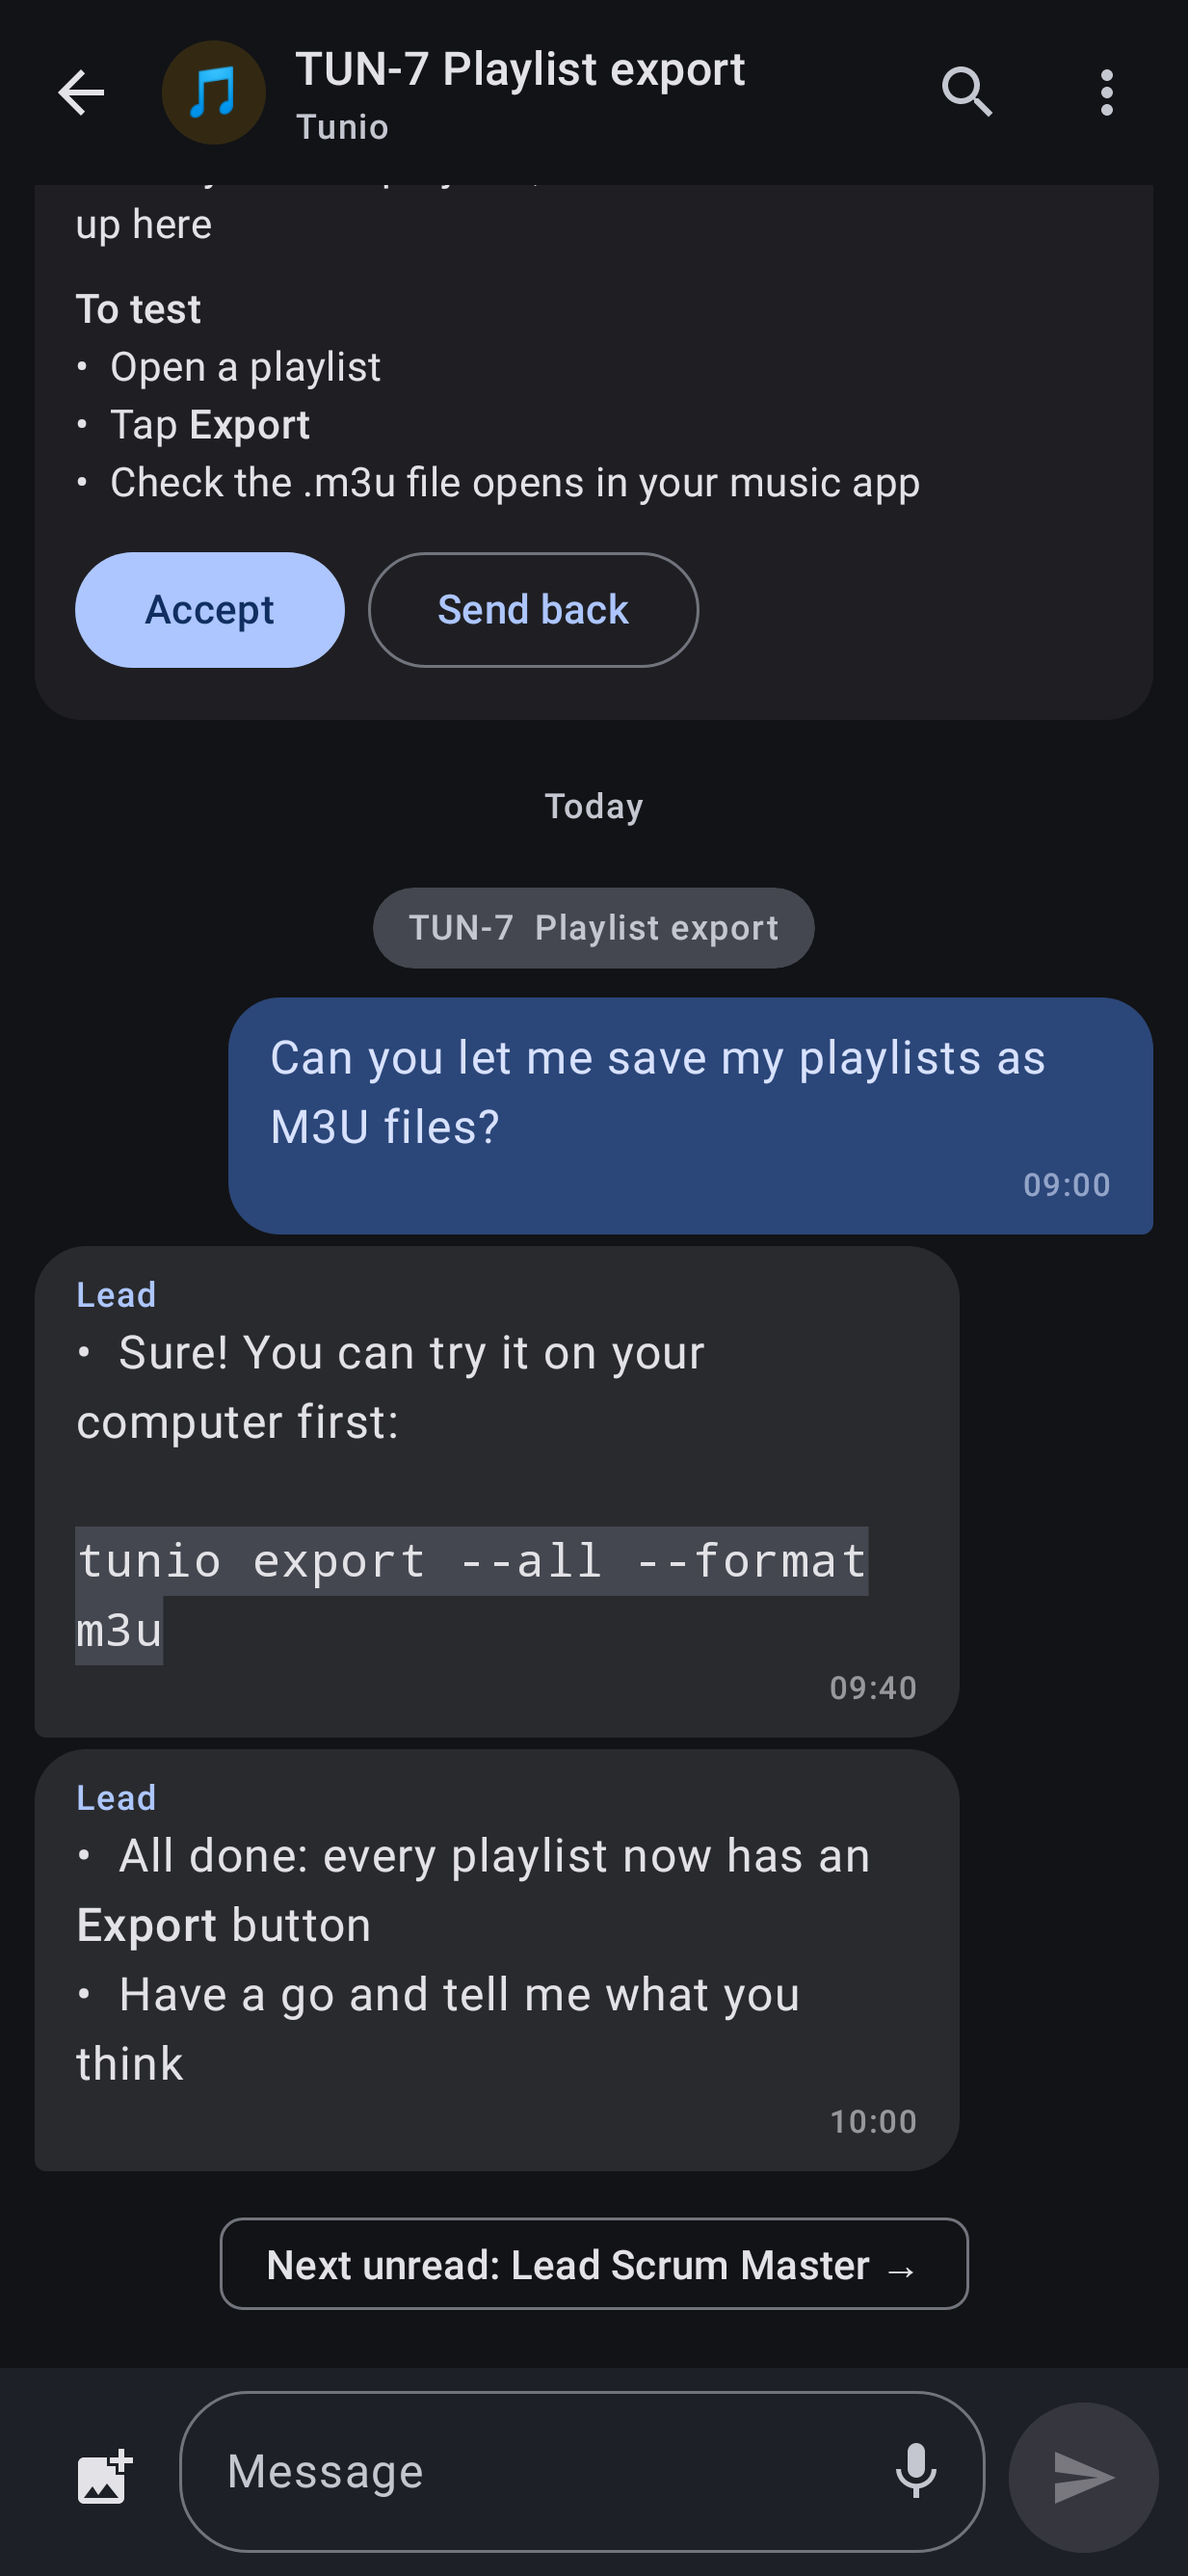
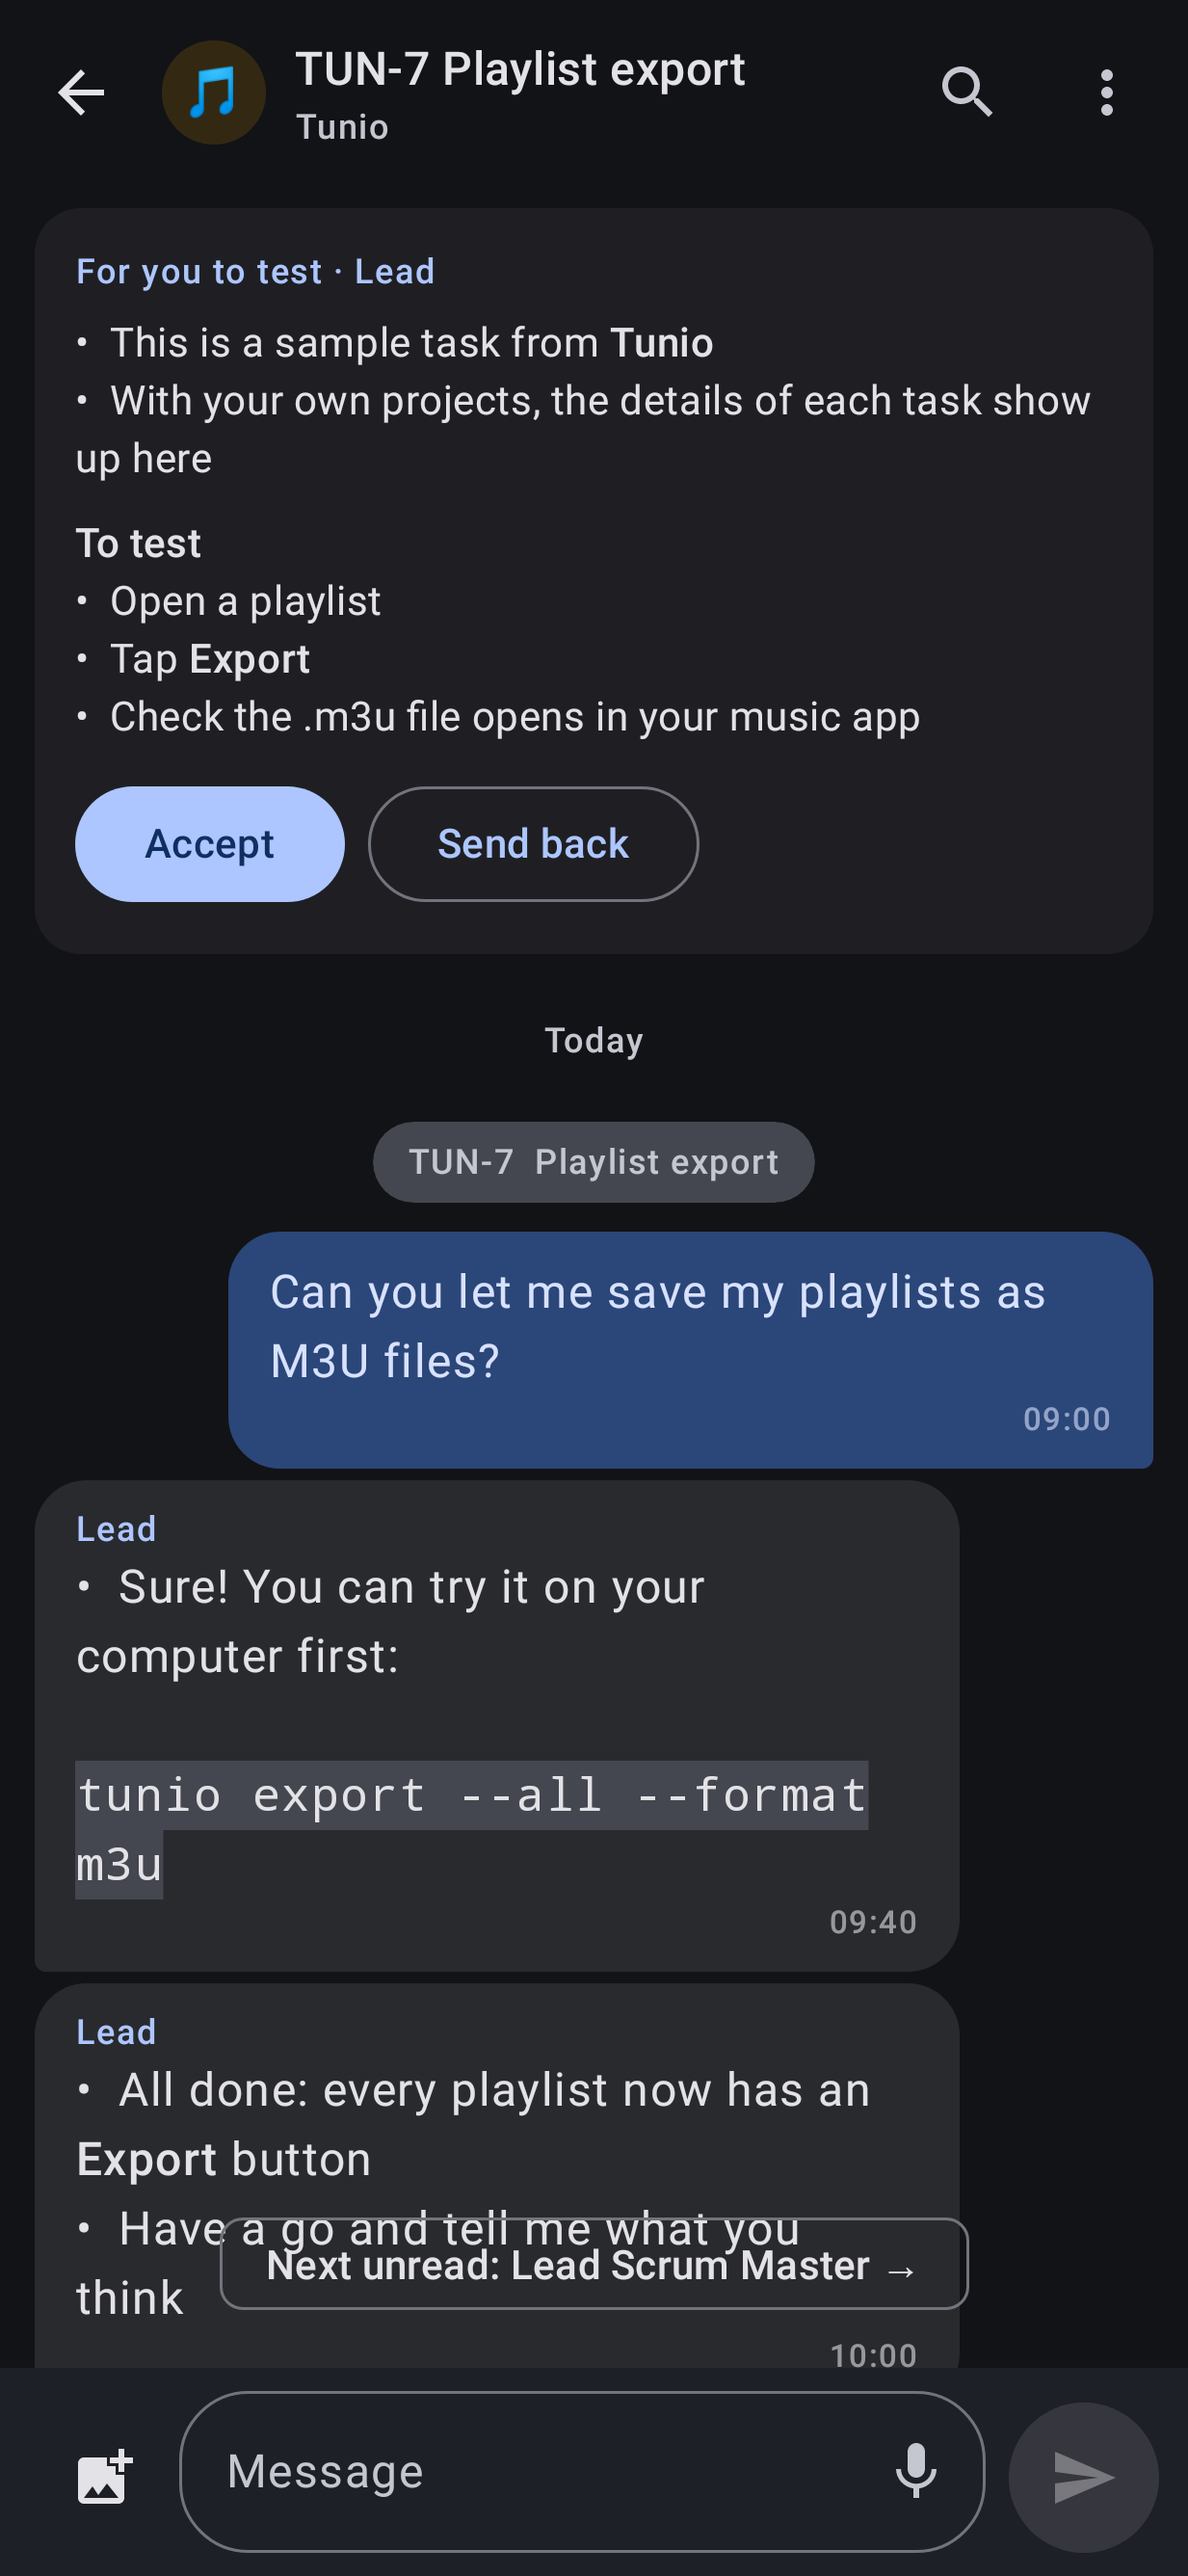
Card view: a card to test opens at its steps and Accept (AII-282); board tests leave a running test board alone

diff --git a/app/src/main/java/com/smizflark/aigile/messenger/ui/ChatScreen.kt b/app/src/main/java/com/smizflark/aigile/messenger/ui/ChatScreen.kt
@@ -259,6 +259,11 @@ fun ChatScreen(repo: Repo, ref: ChatRef, onBack: () -> Unit, focus: String? = nu
     LaunchedEffect(atBottom, newest, restoring) { if (atBottom && !restoring) seenNewest = newest }
     val latestItems by rememberUpdatedState(items)
     RestoreScroll(list, items, placeKey, place, openAt, seenNewest) { restoring = false }   // AII-72, AII-102 (ChatScroll.kt)
+    // AII-282: a card waiting for your test opens at its steps and Accept (the top), unless a saved place or a search result wins.
+    val toTest = detail?.status == "verify"
+    LaunchedEffect(toTest) {
+        if (toTest && place == null && openAt == null) { snapshotFlow { list.layoutInfo.totalItemsCount }.first { it > 0 }; list.scrollToItem(list.layoutInfo.totalItemsCount - 1) }
+    }
     val unread = if (atBottom) 0 else unreadBelow(convo?.bubbles.orEmpty(), seenNewest)
     // AII-204: the next unread chat in chats-list order, worked out as the chats list does it; looked at again whenever you reach the bottom.
     val nextChat = remember(atBottom, convo, Appearance.nextUnread) {

diff --git a/app/src/test/java/com/smizflark/aigile/messenger/screens/ChatShotTest.kt b/app/src/test/java/com/smizflark/aigile/messenger/screens/ChatShotTest.kt
@@ -365,6 +365,15 @@ class ChatShotTest : ShotBase() {
         rule.waitUntil(5_000) { rule.onAllNodesWithTag("card-accept").fetchSemanticsNodes().isEmpty() }
         rule.onNodeWithText("Done · Lead").assertExists()
     }
+    /** AII-282: a busy card waiting for your test opens at its steps, so Accept is on screen. */
+    @Test fun busyCardToTestOpensAtItsSteps() {
+        val t = chats.first { it.id == "tunio" }; prime(t)
+        repeat(15) { repo.queue(t, "Another note on the export, number $it", "TUN-7") }
+        show(false) { ChatScreen(repo, t, onBack = {}, focus = "TUN-7") }
+        rule.waitUntil(5_000) { rule.onAllNodesWithTag("card-accept").fetchSemanticsNodes().isNotEmpty() }
+        rule.waitForIdle()
+        rule.onNodeWithTag("card-accept").assertIsDisplayed()
+    }
     @Test fun testCardLight() = testCard(false)
     @Test fun testCardDark() = testCard(true)
     /** AII-219: tapping "working on AIG-2" opens that card, like a card link. */

diff --git a/app/src/test/java/com/smizflark/aigile/messenger/data/BoardSourceTest.kt b/app/src/test/java/com/smizflark/aigile/messenger/data/BoardSourceTest.kt
@@ -38,6 +38,8 @@ class BoardSourceTest {
             while (b == null && up != null) { File(up, "AI-gile/server.js").takeIf { it.exists() }?.let { b = it.parentFile }; up = up.parentFile }
             assumeTrue("no AI-gile board found (set AIGILE_BOARD)", b != null)
             val (code, out) = node("start", "--board", b!!.path)
+            // A test board already running is someone else's (e.g. on Rich's phone, AII-67): skip, and never stop it.
+            assumeTrue("a test board is already running: skipped so it keeps running", !out.contains("already running"))
             check(code == 0) { "test board did not start: $out" }
             url = out.lines().last { it.startsWith("http") }
         }
